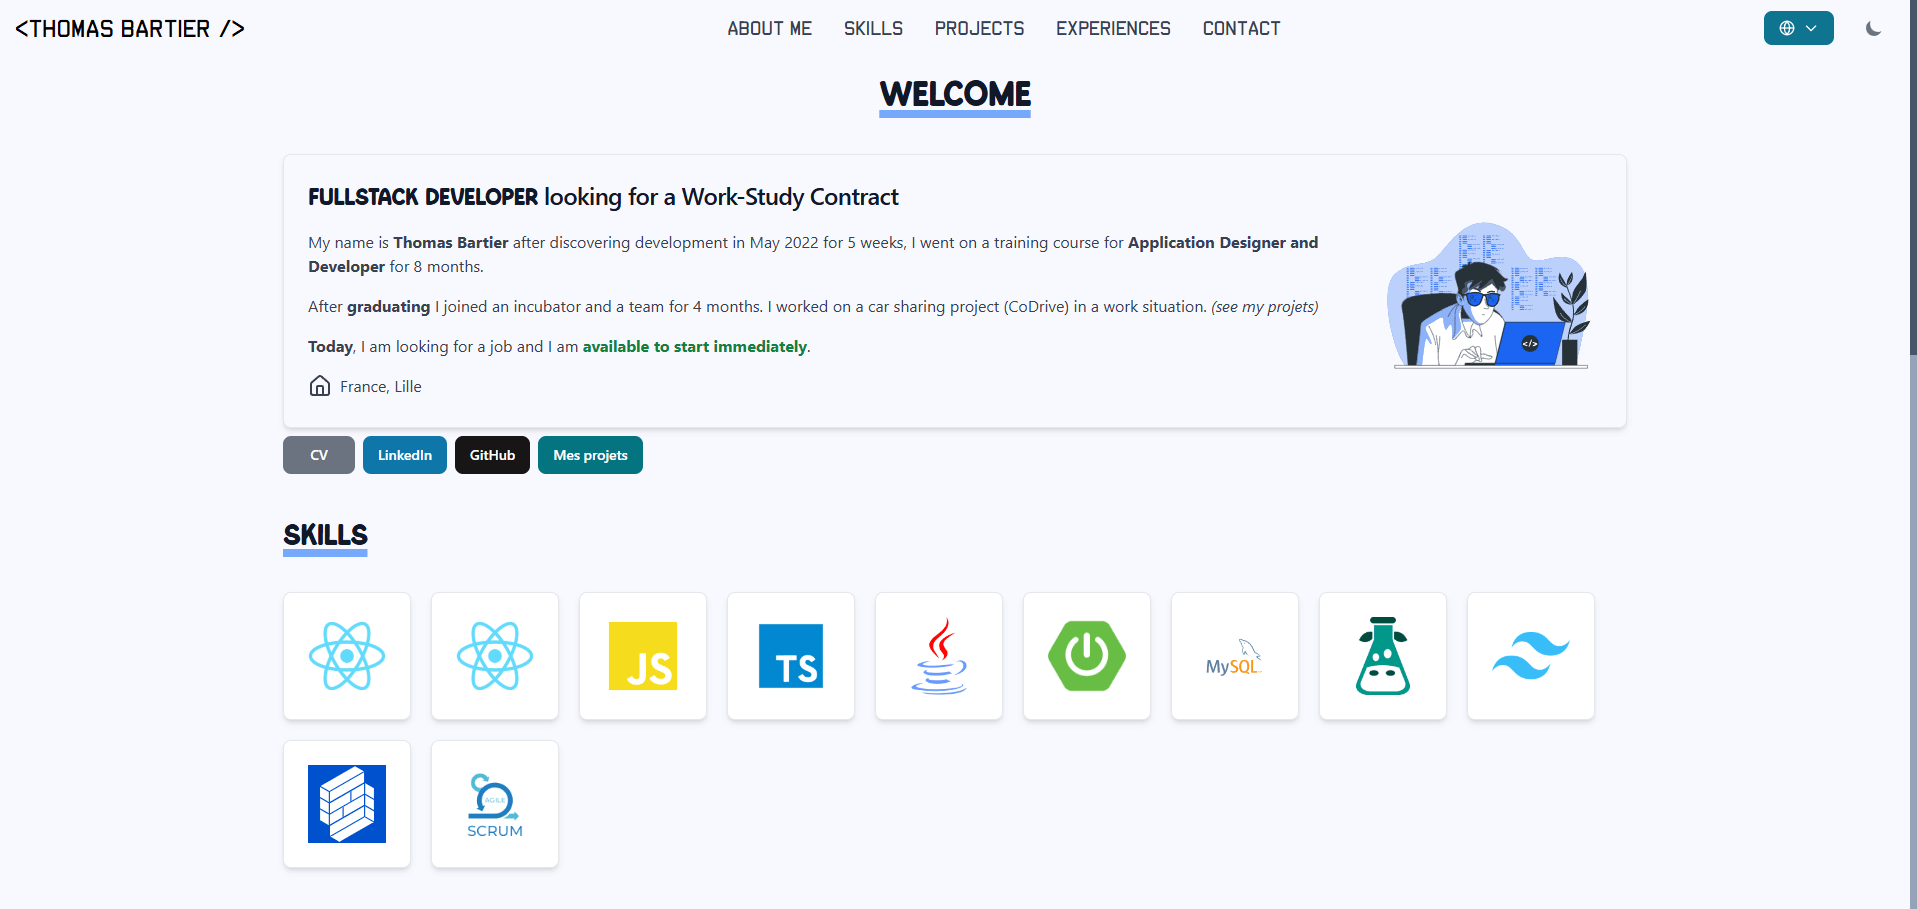
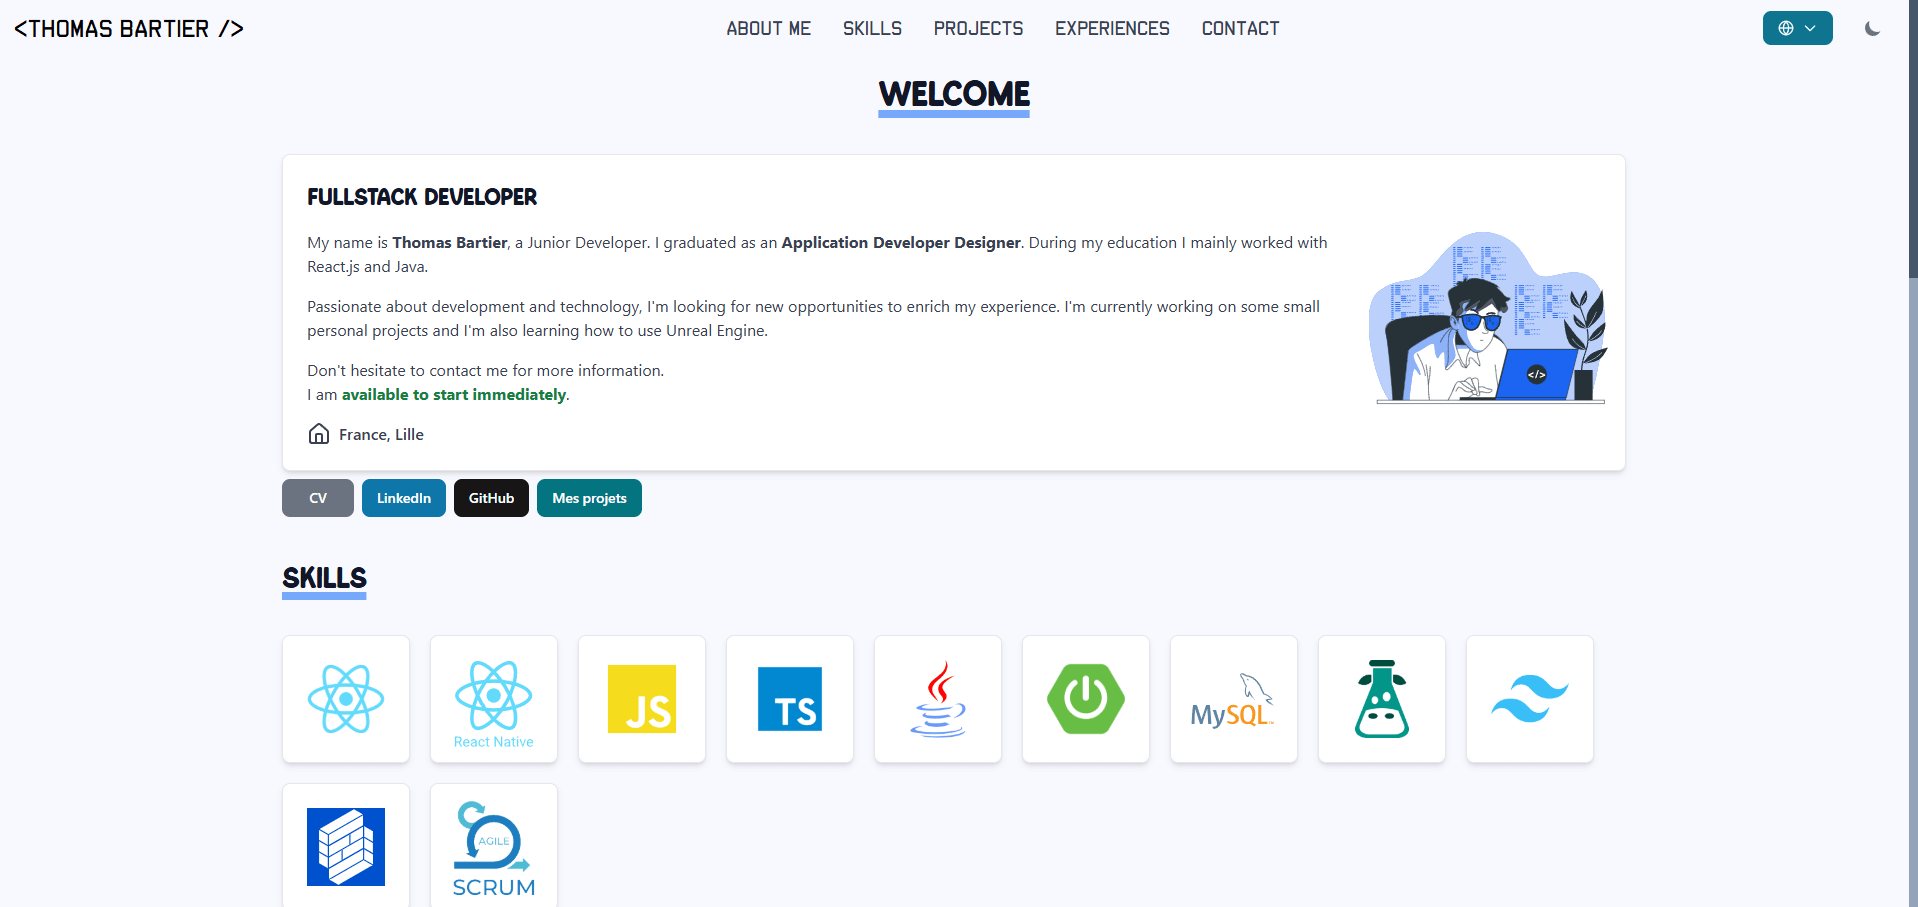
fix words & imgs portfolio 2

diff --git a/src/components/layout/Header.jsx b/src/components/layout/Header.jsx
@@ -12,7 +12,7 @@ import { useTranslation } from "react-i18next";
 
 const Header = ({ home }) => {
   const navigate = useNavigate();
-  const { t } = useTranslation();
+  const { t, i18n } = useTranslation();
 
   const text = "<Thomas Bartier />";
 
@@ -44,7 +44,7 @@ const Header = ({ home }) => {
       {home && (
         <NavbarCollapse className="font-devgothic">
           <NavbarLink className="text-2xl max-lg:text-xl" href="#about">{t("TITLE.ABOUT")}</NavbarLink>
-          <NavbarLink className="text-2xl max-lg:text-xl" href="#skills">{t("TITLE.SKILLS")}</NavbarLink>
+          <NavbarLink className="text-2xl max-lg:text-xl" href="#skills">{i18n.language === "fr" ? "Competences" : "Skills"}</NavbarLink>
           <NavbarLink className="text-2xl max-lg:text-xl" href="#projects">{t("TITLE.PROJECTS")}</NavbarLink>
           <NavbarLink className="text-2xl max-lg:text-xl" href="#exp">{t("TITLE.EXP")}</NavbarLink>
           <NavbarLink className="text-2xl max-lg:text-xl" href="#contact">Contact</NavbarLink>

diff --git a/src/components/aboutME/MeFr.jsx b/src/components/aboutME/MeFr.jsx
@@ -12,7 +12,7 @@ const MeFr = () => {
       Passionné par le développement et la technologie, je suis à la recherche de nouvelles opportunités pour enrichir mon expérience. Actuellement, sur des petits projets personnels, j'apprends aussi l'utilisation d'Unreal Engine.
     </p>
     <p> 
-      N'hésitez pas à me contacter pour plus d'information. <br/>Je suis <span className='dark:text-available-light text-available-dark font-bold'>disponible immédiatement</span>.
+      N'hésitez pas à me contacter pour plus d'informations. <br/>Je suis <span className='dark:text-available-light text-available-dark font-bold'>disponible immédiatement</span>.
     </p>
     <Place />
     </div>
